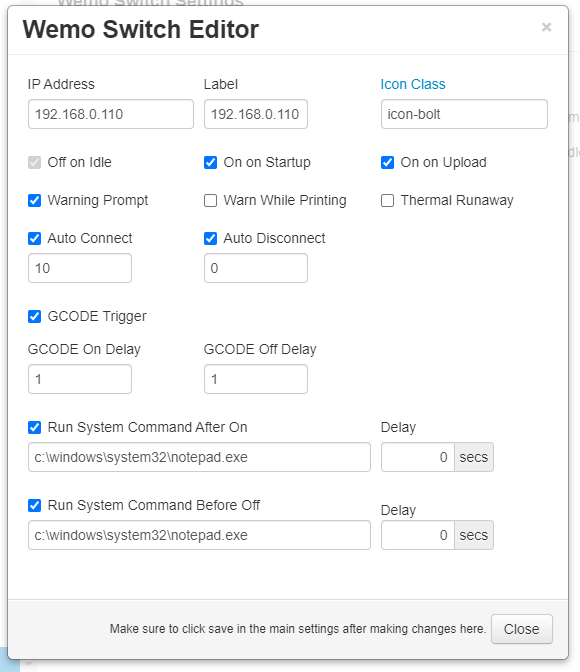
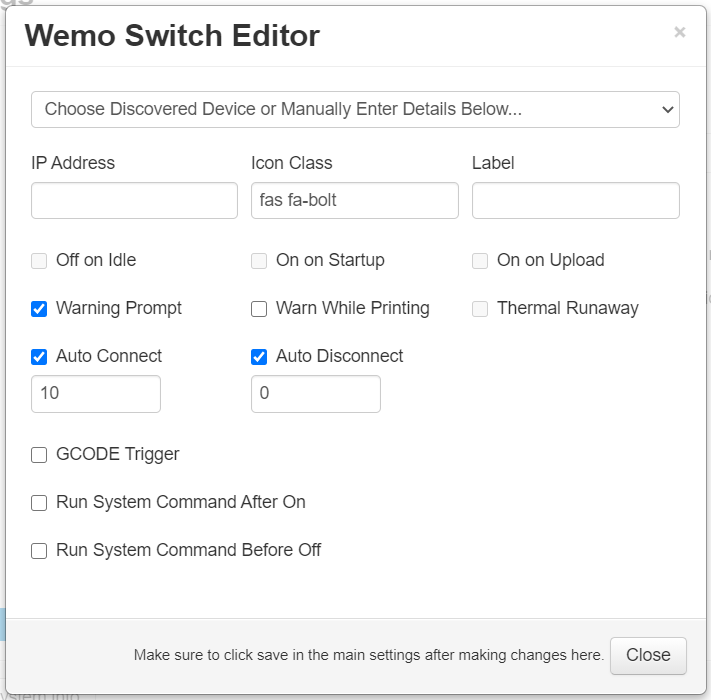
0.1.9 (#40)
* device discovery for easier addition of devices, may not work in all networks
* ip can now include a port in the format ip:port, ie 192.168.0.107:49153
* access permissions now included as `Wemo Switch: Control Plugs` for API

diff --git a/octoprint_wemoswitch/static/js/wemoswitch.js b/octoprint_wemoswitch/static/js/wemoswitch.js
@@ -14,6 +14,7 @@ $(function() {
 		self.arrSmartplugs = ko.observableArray();
 		self.isPrinting = ko.observable(false);
 		self.selectedPlug = ko.observable();
+		self.selected_discovered_device = ko.observable();
 		self.processing = ko.observableArray([]);
 		self.powerOffWhenIdle = ko.observable(false);
 		self.show_sidebar = ko.pureComputed(function(){
@@ -130,10 +131,17 @@ $(function() {
 			$("#WemoSwitchEditor").modal("show");
 		}
 
+		self.use_discovered = function(data) {
+		    if(self.selected_discovered_device()) {
+                data.ip(self.selected_discovered_device().ip());
+                data.label(self.selected_discovered_device().label());
+            }
+        }
+
 		self.addPlug = function() {
 			self.selectedPlug({'ip':ko.observable(''),
                                 'label':ko.observable(''),
-                                'icon':ko.observable('icon-bolt'),
+                                'icon':ko.observable('fas fa-bolt'),
                                 'displayWarning':ko.observable(true),
                                 'warnPrinting':ko.observable(false),
                                 'thermal_runaway':ko.observable(false),

diff --git a/octoprint_wemoswitch/__init__.py b/octoprint_wemoswitch/__init__.py
@@ -2,7 +2,8 @@
 from __future__ import absolute_import
 
 import octoprint.plugin
-from octoprint.server import user_permission
+from octoprint.access.permissions import Permissions, ADMIN_GROUP, USER_GROUP
+from flask_babel import gettext
 from octoprint.events import eventManager, Events
 from octoprint.util import RepeatedTimer
 import socket
@@ -109,7 +110,15 @@ class wemoswitchPlugin(octoprint.plugin.SettingsPlugin,
 
 	def on_after_startup(self):
 		self._logger.info("WemoSwitch loaded!")
+
+		self._logger.debug("Discovering devices")
 		self.discovered_devices = pywemo.discover_devices()
+
+		if self.discovered_devices:
+			for d in self.get_discovered_devices():
+				self._wemoswitch_logger.debug("Device %s: %s" % d)
+		else:
+			self._wemoswitch_logger.debug("No discovered devices on network")
 
 		self.abortTimeout = self._settings.get_int(["abortTimeout"])
 		self._wemoswitch_logger.debug("abortTimeout: %s" % self.abortTimeout)
@@ -132,6 +141,19 @@ class wemoswitchPlugin(octoprint.plugin.SettingsPlugin,
 
 	##~~ SettingsPlugin mixin
 
+	def get_discovered_device(self, index):
+		tmp_ret = self.discovered_devices[index]
+		return {"label": tmp_ret.name,
+				"ip": "{}:{}".format(tmp_ret.host, tmp_ret.port),
+				"sn": tmp_ret.serialnumber}
+
+	def get_discovered_devices(self):
+		tmp_ret = []
+		for index in range(len(self.discovered_devices)):
+			d = self.get_discovered_device(index)
+			tmp_ret.append(d)
+		return tmp_ret
+
 	def get_settings_defaults(self):
 		return dict(
 			debug_logging=False,
@@ -149,6 +171,16 @@ class wemoswitchPlugin(octoprint.plugin.SettingsPlugin,
 			event_on_upload_monitoring=False,
 			event_on_startup_monitoring=False
 		)
+
+	def on_settings_load(self):
+		data = {}
+		for key in self.get_settings_defaults():
+			data[key] = self._settings.get([key])
+		if "discovered_devices" in data:
+			del data["discovered_devices"]
+
+		data["discovered_devices"] = self.get_discovered_devices()
+		return data
 
 	def on_settings_save(self, data):
 		old_debug_logging = self._settings.get_boolean(["debug_logging"])
@@ -280,7 +312,7 @@ class wemoswitchPlugin(octoprint.plugin.SettingsPlugin,
 					abortAutomaticShutdown=[])
 
 	def on_api_command(self, command, data):
-		if not user_permission.can():
+		if not Permissions.PLUGIN_WEMOSWITCH_CONTROL.can():
 			return flask.make_response("Insufficient rights", 403)
 
 		if command == 'turnOn':
@@ -532,10 +564,15 @@ class wemoswitchPlugin(octoprint.plugin.SettingsPlugin,
 	def sendCommand(self, cmd, plugip):
 		# try to connect via ip address
 		try:
+			if ':' in plugip:
+				plugip, port = plugip.split(':', maxsplit=1)
+			else:
+				port = None
 			socket.inet_aton(plugip)
 			ip = plugip
+			port = int(port)
 			self._wemoswitch_logger.debug("IP %s is valid." % plugip)
-		except socket.error:
+		except socket.error or ValueError:
 			# try to convert hostname to ip
 			self._wemoswitch_logger.debug("Invalid ip %s trying hostname." % plugip)
 			try:
@@ -547,7 +584,8 @@ class wemoswitchPlugin(octoprint.plugin.SettingsPlugin,
 
 		try:
 			self._wemoswitch_logger.debug("Attempting to connect to %s" % plugip)
-			port = pywemo.ouimeaux_device.probe_wemo(plugip)
+			if port is None:
+				port = pywemo.ouimeaux_device.probe_wemo(plugip)
 			url = 'http://%s:%s/setup.xml' % (plugip, port)
 			url = url.replace(':None', '')
 			self._wemoswitch_logger.debug("Getting device info from %s" % url)
@@ -568,6 +606,18 @@ class wemoswitchPlugin(octoprint.plugin.SettingsPlugin,
 		except socket.error:
 			self._wemoswitch_logger.debug("Could not connect to %s." % plugip)
 			return 3
+
+	##~~ Access Permissions Hook
+
+	def get_additional_permissions(self, *args, **kwargs):
+		return [
+			dict(key="CONTROL",
+				 name="Control Plugs",
+				 description=gettext("Allows control of configured plugs."),
+				 roles=["admin"],
+				 dangerous=True,
+				 default_groups=[ADMIN_GROUP])
+		]
 
 	##~~ Gcode processing hook
 
@@ -688,5 +738,6 @@ def __plugin_load__():
 		"octoprint.comm.protocol.gcode.queuing": __plugin_implementation__.processGCODE,
 		"octoprint.comm.protocol.atcommand.sending": __plugin_implementation__.processAtCommand,
 		"octoprint.comm.protocol.temperatures.received": __plugin_implementation__.monitor_temperatures,
+		"octoprint.access.permissions": __plugin_implementation__.get_additional_permissions,
 		"octoprint.plugin.softwareupdate.check_config": __plugin_implementation__.get_update_information
 	}

diff --git a/setup.py b/setup.py
@@ -14,7 +14,7 @@ plugin_package = "octoprint_wemoswitch"
 plugin_name = "OctoPrint-WemoSwitch"
 
 # The plugin's version. Can be overwritten within OctoPrint's internal data via __plugin_version__ in the plugin module
-plugin_version = "0.1.8"
+plugin_version = "0.1.9"
 
 # The plugin's description. Can be overwritten within OctoPrint's internal data via __plugin_description__ in the plugin
 # module

diff --git a/README.md b/README.md
@@ -2,6 +2,10 @@
 
 This plugin allows for the control of Belkin Wemo devices via navbar buttons and gcode commands.
 
+## Firmware Warning
+
+Starting in May of 2020, Belkin started requiring users to create an account and login to the app (Android app version 1.25). In addition to the account, most of the app functionality now requires a connection to the cloud (internet access), even for simple actions such as toggling a switch. All of the commands that go through the cloud are encrypted and cannot be easily inspected. This raises the possibility that Belkin could, in the future, update Wemo device firmware and make breaking API changes that can not longer be deciphered. If this happens, pywemo (dependency of this plugin) may no longer function on that device rendering this plugin useless. It would be prudent to upgrade firmware cautiously and preferably only after confirming that breaking API changes have not been introduced.
+
 ## Screenshots
 
 ![on](screenshot_on.png)
@@ -44,14 +48,12 @@ Once installed go into settings and enter the name of your wemo device. Adjust a
 
 ## Most recent changelog
 
-**[0.1.8](https://github.com/jneilliii/OctoPrint-WemoSwitch/releases/tag/0.1.8)** (11/21/2020)
+### [0.1.9](https://github.com/jneilliii/OctoPrint-WemoSwitch/releases/tag/0.1.9) (01/07/2021)
 
 **Added**
-* release channels for OctoPrint 1.5.0+ for future rc testing, similar to OctoPrint as described [here](https://community.octoprint.org/t/how-to-use-the-release-channels-to-help-test-release-candidates/402)
-
-**Updated**
-* knockout sortable library for OctoPrint 1.5.0 compatibility
-
+* device discovery for easier addition of devices, may not work in all networks
+* ip can now include a port in the format ip:port, ie 192.168.0.107:49153
+* access permissions now included as `Wemo Switch: Control Plugs` for API
 
 ### [All releases](https://github.com/jneilliii/OctoPrint-WemoSwitch/releases)
 
